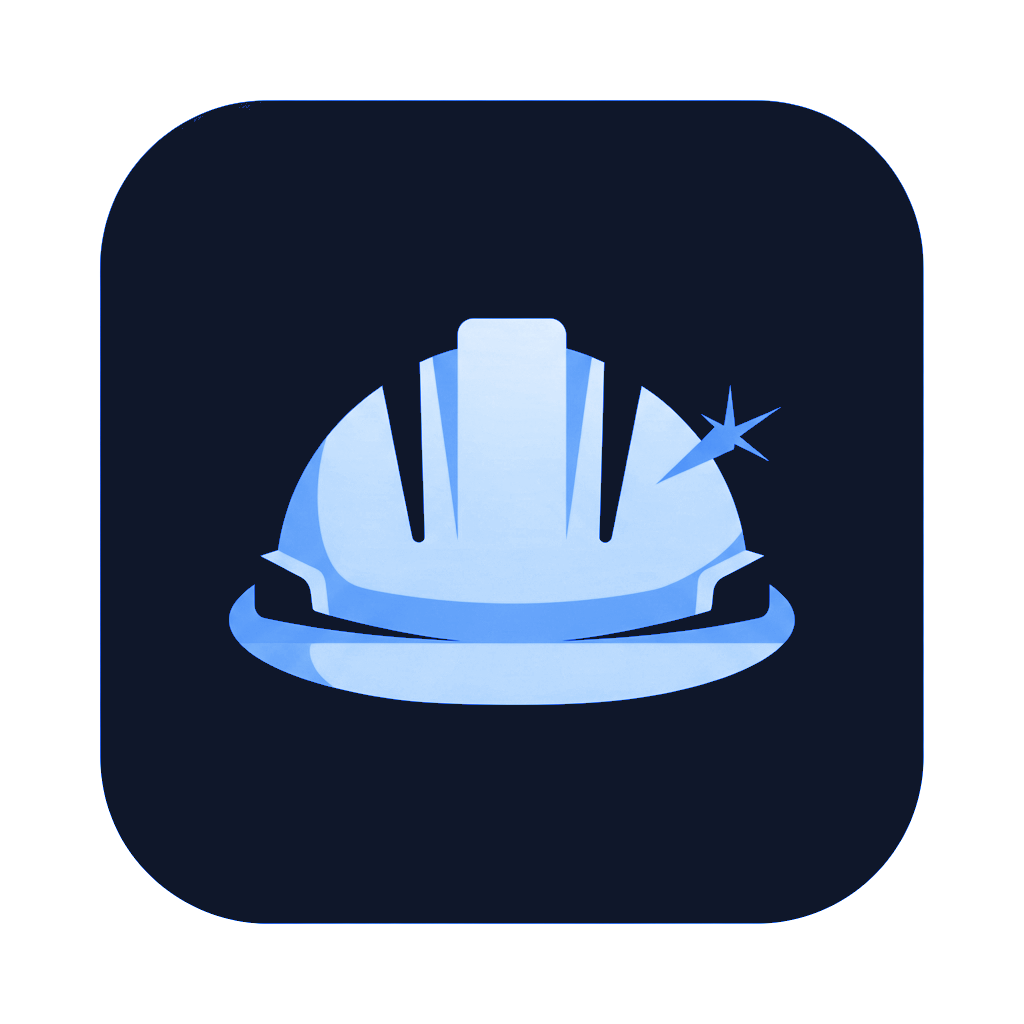
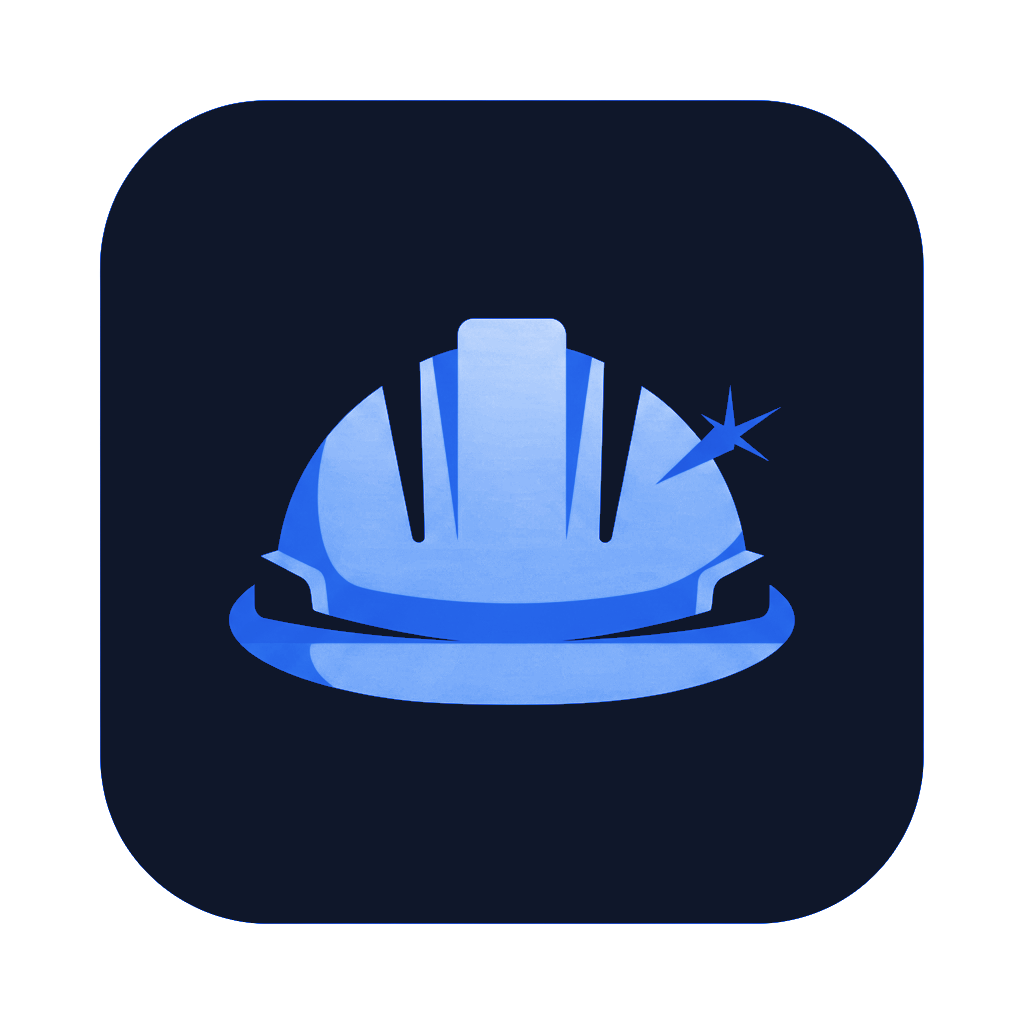
Adjust hat color to a darker shade of blue
Update `brand-hat-final.png` and `mockup-components.ts` to reflect a darker blue hue for the hat component.

Replit-Commit-Author: Agent
Replit-Commit-Session-Id: 7d6c72b0-ad9c-44bc-9743-7b07cac89abb
Replit-Commit-Checkpoint-Type: full_checkpoint
Replit-Commit-Event-Id: 71986d45-e7bf-4ccb-8816-20602a695d15
Replit-Commit-Screenshot-Url: https://storage.googleapis.com/screenshot-production-us-central1/67151d63-a6fc-4f67-9187-e9e466b23e48/7d6c72b0-ad9c-44bc-9743-7b07cac89abb/NgmD69N
Replit-Helium-Checkpoint-Created: true

Changed region(s): [[0.2188, 0.3125, 0.7812, 0.6875]]

diff --git a/artifacts/mockup-sandbox/src/.generated/mockup-components.ts b/artifacts/mockup-sandbox/src/.generated/mockup-components.ts
@@ -1,11 +1,6 @@
 // This file is auto-generated by mockupPreviewPlugin.ts.
 type ModuleMap = Record<string, () => Promise<Record<string, unknown>>>;
 export const modules: ModuleMap = {
-  "./components/mockups/buildmatch-palettes/Cinnabar.tsx": () => import("../components/mockups/buildmatch-palettes/Cinnabar.tsx"),
-  "./components/mockups/buildmatch-palettes/Forest.tsx": () => import("../components/mockups/buildmatch-palettes/Forest.tsx"),
-  "./components/mockups/buildmatch-palettes/LightTheme.tsx": () => import("../components/mockups/buildmatch-palettes/LightTheme.tsx"),
-  "./components/mockups/buildmatch-palettes/Original.tsx": () => import("../components/mockups/buildmatch-palettes/Original.tsx"),
-  "./components/mockups/buildmatch-palettes/SteelBlue.tsx": () => import("../components/mockups/buildmatch-palettes/SteelBlue.tsx"),
   "./components/mockups/app-icons/ArchBridge.tsx": () => import("../components/mockups/app-icons/ArchBridge.tsx"),
   "./components/mockups/app-icons/Blueprint.tsx": () => import("../components/mockups/app-icons/Blueprint.tsx"),
   "./components/mockups/app-icons/Crane.tsx": () => import("../components/mockups/app-icons/Crane.tsx"),
@@ -23,5 +18,10 @@ export const modules: ModuleMap = {
   "./components/mockups/font-options/BarlowSemiCondensed.tsx": () => import("../components/mockups/font-options/BarlowSemiCondensed.tsx"),
   "./components/mockups/font-options/PlusJakartaSans.tsx": () => import("../components/mockups/font-options/PlusJakartaSans.tsx"),
   "./components/mockups/font-options/Syne.tsx": () => import("../components/mockups/font-options/Syne.tsx"),
-  "./components/mockups/font-options/Urbanist.tsx": () => import("../components/mockups/font-options/Urbanist.tsx")
+  "./components/mockups/font-options/Urbanist.tsx": () => import("../components/mockups/font-options/Urbanist.tsx"),
+  "./components/mockups/buildmatch-palettes/Cinnabar.tsx": () => import("../components/mockups/buildmatch-palettes/Cinnabar.tsx"),
+  "./components/mockups/buildmatch-palettes/Forest.tsx": () => import("../components/mockups/buildmatch-palettes/Forest.tsx"),
+  "./components/mockups/buildmatch-palettes/LightTheme.tsx": () => import("../components/mockups/buildmatch-palettes/LightTheme.tsx"),
+  "./components/mockups/buildmatch-palettes/Original.tsx": () => import("../components/mockups/buildmatch-palettes/Original.tsx"),
+  "./components/mockups/buildmatch-palettes/SteelBlue.tsx": () => import("../components/mockups/buildmatch-palettes/SteelBlue.tsx")
 };